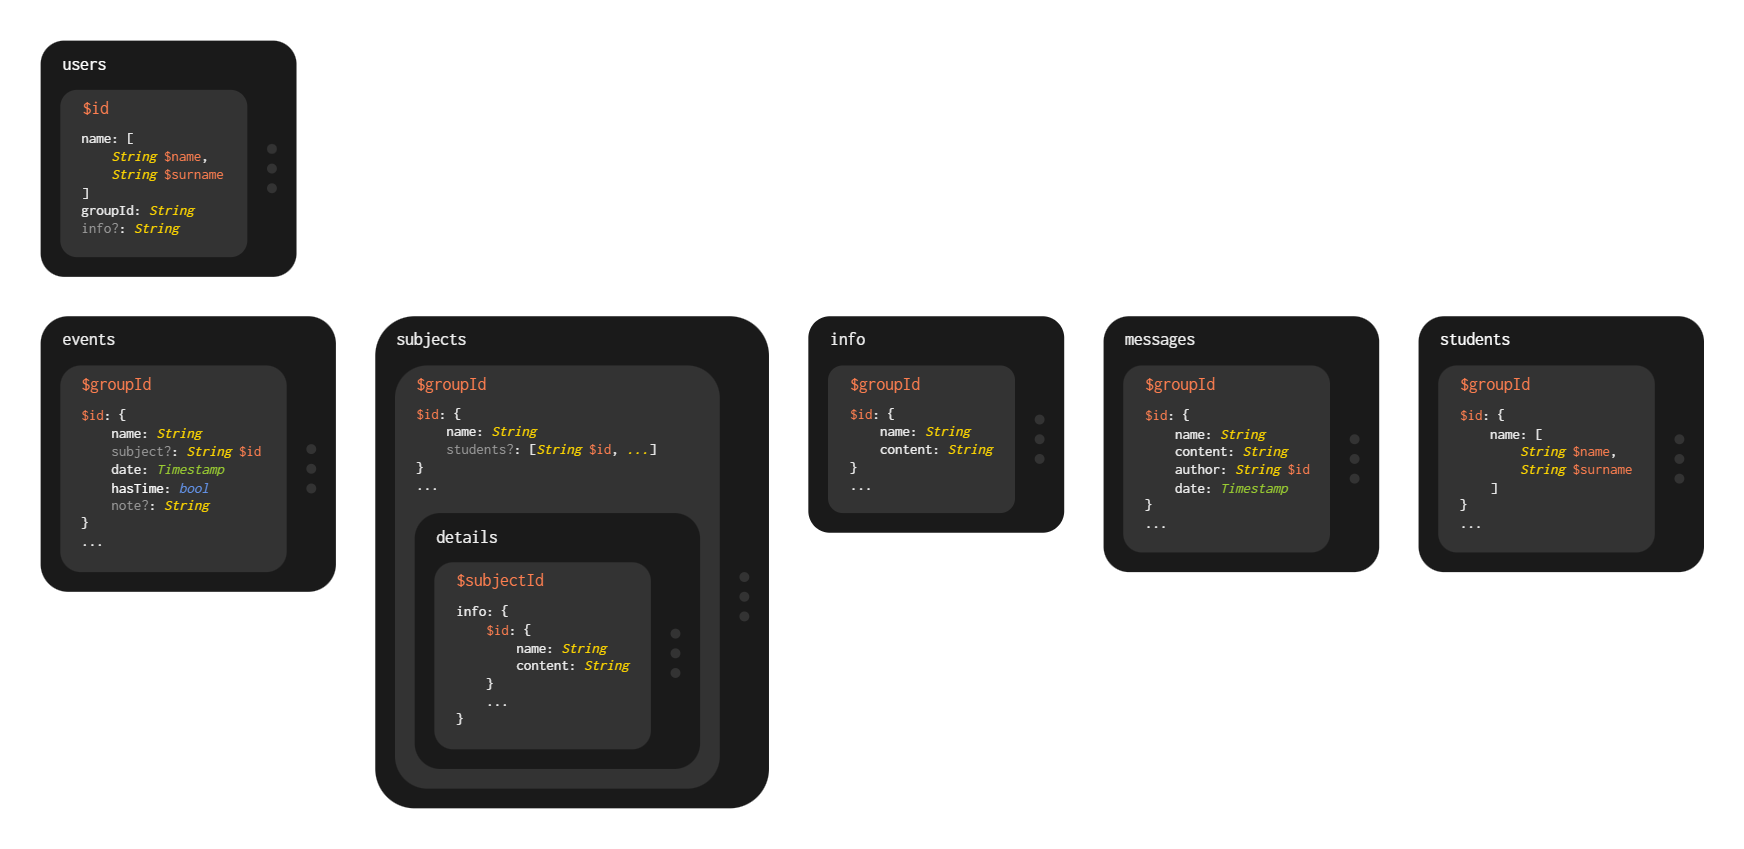
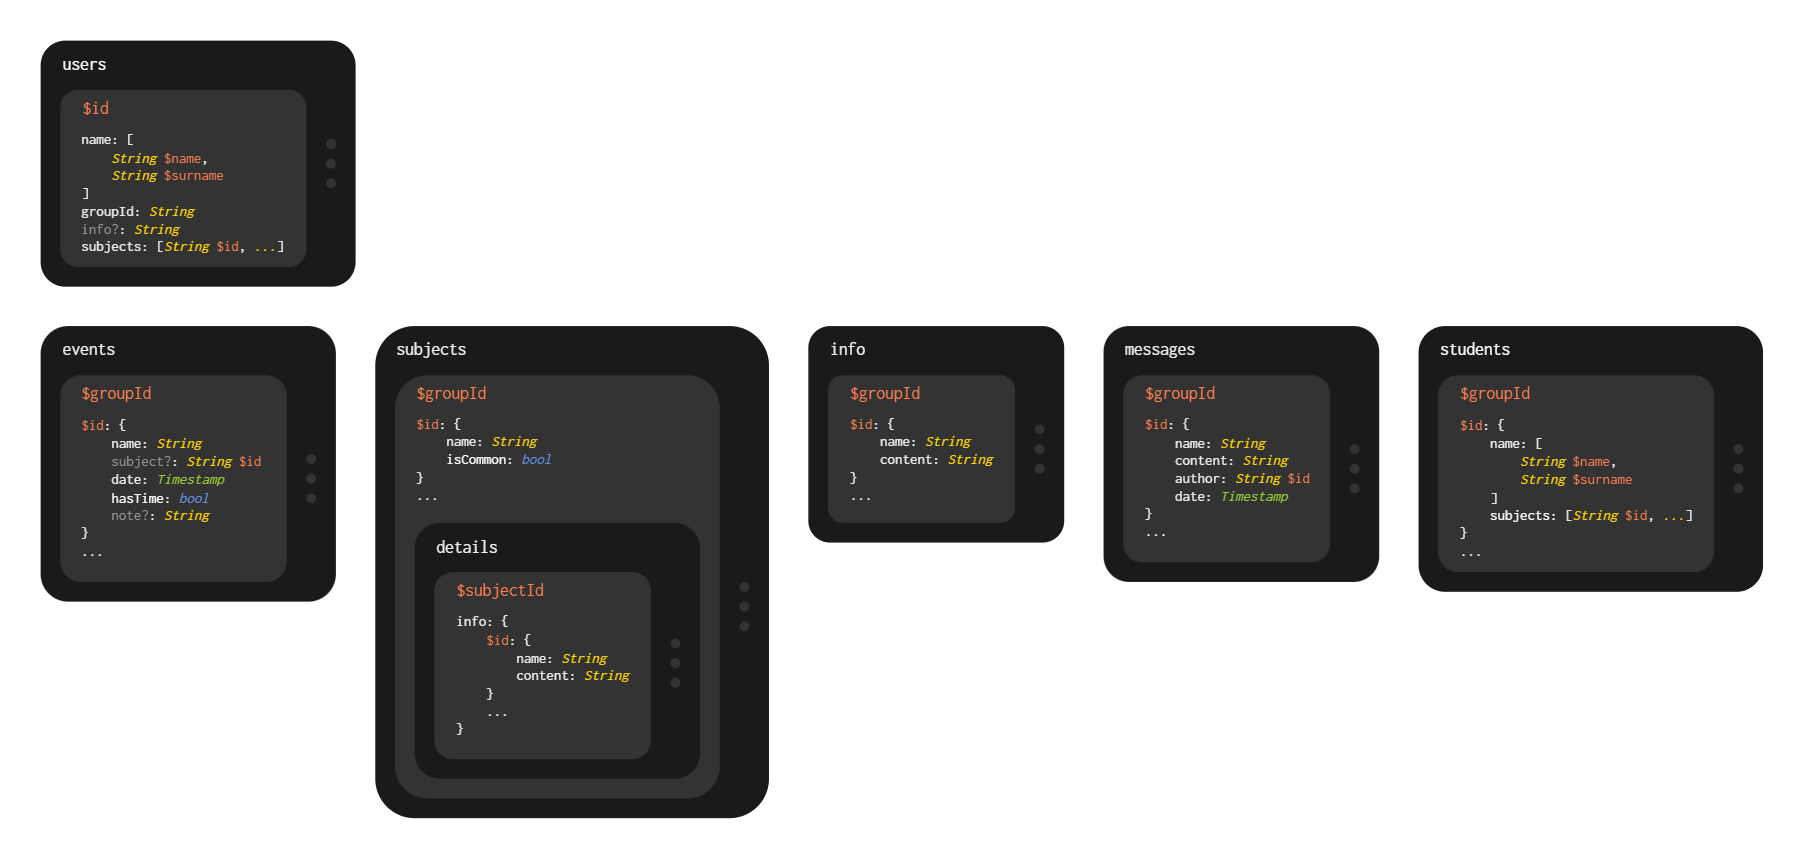
Change how the subjects-students relation is stored

Changed region(s): [[0.031, 0.3675, 0.9908, 0.9494], [0.031, 0.0306, 0.2167, 0.3369], [0.031, 0.0612, 0.0619, 0.0919]]

diff --git a/app/lib/features/home/data/repository.dart b/app/lib/features/home/data/repository.dart
@@ -15,8 +15,8 @@ import '../domain/entities/subject.dart';
 
 // do: failures
 // do: prevent unnecessary reads
-// do: remove duplication with info (adding, reading)
-// think: define addEntity, entities
+// do: remove duplication with info (adding, reading, referencing subject info)
+// think: define addEntity, entities, deleteEntity
 class HomeRepository {
 	const HomeRepository();
 
@@ -38,7 +38,7 @@ class HomeRepository {
 			ref.update({
 				subject.id: {
 					Field.name.name: subject.name,
-					if (subject.studentIds != null) Field.students.name: subject.studentIds
+					Field.isCommon.name: subject.isCommon
 				}
 			}),
 			ref.collection('details').doc(subject.id).set({
@@ -103,9 +103,7 @@ class HomeRepository {
 		return snapshot.data()!.entries.map((entry) => Subject(
 			id: entry.key,
 			name: entry.value[Field.name.name],
-			studentIds: !entry.value.containsKey(Field.students.name) ?
-				null :
-				List<String>.from(entry.value[Field.students.name])
+			isCommon: entry.value[Field.isCommon.name]
 		));
 	}
 
@@ -129,7 +127,7 @@ class HomeRepository {
 
 		return SubjectDetails(
 			info: info,
-			students: students
+			students: students?.where((s) => s.chose(subject))
 		);
 	}
 
@@ -163,8 +161,9 @@ class HomeRepository {
 		final snapshot = await Document.students.ref.get();
 		return snapshot.data()!.entries.map((entry) => Student(
 			id: entry.key,
-			name: (entry.value[Field.name.name]).first,
-			surname: (entry.value[Field.name.name]).last
+			name: entry.value[Field.name.name].first,
+			surname: entry.value[Field.name.name].last,
+			chosenSubjectIds: Set<String>.from(entry.value[Field.subjects.name])
 		));
 	}
 

diff --git a/app/lib/features/home/presentation/sections/subjects/section.dart b/app/lib/features/home/presentation/sections/subjects/section.dart
@@ -2,6 +2,8 @@ import 'package:collection/collection.dart';
 import 'package:flutter/material.dart';
 import 'package:hooks_riverpod/hooks_riverpod.dart';
 
+import 'package:podiinyk/core/domain/user.dart';
+
 import '../../../domain/entities/subject.dart';
 import '../../../domain/providers/events.dart';
 import '../../../domain/providers/subjects.dart';
@@ -27,8 +29,8 @@ class SubjectsSection extends HomeSection {
 	@override
 	Widget build(BuildContext context, WidgetRef ref) {
 		Iterable<Subject>? subjects = ref.watch(subjectsProvider);
-		subjects = subjects?.where((s) => s.isStudied)
-			.followedBy(subjects.where((s) => !s.isStudied));
+		subjects = subjects?.where((s) => User.studies(s))
+			.followedBy(subjects.where((s) => !User.studies(s)));
 
 		final events = ref.watch(eventsProvider);
 
@@ -44,7 +46,7 @@ class SubjectsSection extends HomeSection {
 				tile: (subject) {
 					final nextEvent = events!.firstWhereOrNull((e) => e.subject == subject);
 					return Opacity(
-						opacity: subject.isStudied ? 1 : .5,
+						opacity: User.studies(subject) ? 1 : .5,
 						child: EntityTile(
 							title: subject.name,
 							subtitle: nextEvent?.name,

diff --git a/app/lib/features/home/presentation/sections/events/form.dart b/app/lib/features/home/presentation/sections/events/form.dart
@@ -3,6 +3,7 @@ import 'package:flutter_hooks/flutter_hooks.dart';
 import 'package:hooks_riverpod/hooks_riverpod.dart';
 
 import 'package:podiinyk/core/domain/types/date.dart';
+import 'package:podiinyk/core/domain/user.dart';
 
 import '../../../domain/entities/entity.dart';
 import '../../../domain/entities/event.dart';
@@ -18,7 +19,7 @@ import '../../widgets/fields/option_field.dart';
 // 		EventForm relies on subjectsProvider to have been accessed
 //		EventsPage reads events from HomeRepository, not subjectsProvider
 // 		fix this after the data layer is improved
-// do: TextField.textInputAction
+// do: TextField.(textInputAction, multiline)
 // think: define EntityForm
 class EventForm extends HookConsumerWidget {
 	const EventForm();
@@ -52,7 +53,7 @@ class EventForm extends HookConsumerWidget {
 					if (subjects.isNotEmpty) OptionField<Subject>(
 						label: 'subject',
 						options: [
-							for (final subject in subjects.where((s) => s.isStudied))
+							for (final subject in subjects.where((s) => User.studies(s)))
 								MapEntry(subject.name, subject)
 						],
 						onPick: (s) => subject.value = s,

diff --git a/app/lib/features/home/presentation/sections/subjects/page.dart b/app/lib/features/home/presentation/sections/subjects/page.dart
@@ -1,6 +1,8 @@
 import 'package:flutter/material.dart';
 import 'package:hooks_riverpod/hooks_riverpod.dart';
 
+import 'package:podiinyk/core/domain/user.dart';
+
 import '../../../domain/entities/subject.dart';
 import '../../../domain/providers/events.dart';
 import '../../../domain/providers/subjects.dart';
@@ -26,7 +28,7 @@ class SubjectPage extends ConsumerWidget {
 		final events = ref.watch(eventsProvider)?.where((e) => e.subject == subject);
 
 		final isCommon = subject.isCommon;
-		final isStudied = subject.isStudied;
+		final isStudied = User.studies(subject);
 
 		return Scaffold(body: DefaultTabController(
 			length: isCommon ? 2 : 3,
@@ -36,10 +38,6 @@ class SubjectPage extends ConsumerWidget {
 					SafeArea(child: ActionBar(children: [
 						if (!isCommon) ActionButton(
 							icon: Icons.local_library,  // Icons.airline_seat_individual_suite
-							action: () {}
-						),
-						ActionButton(
-							icon: Icons.edit,
 							action: () {}
 						),
 						ActionButton(

diff --git a/app/lib/features/home/domain/entities/student.dart b/app/lib/features/home/domain/entities/student.dart
@@ -1,18 +1,32 @@
+import 'package:podiinyk/core/domain/user.dart';
+
 import 'entity.dart';
+import 'subject.dart';
 
 
 class Student extends Entity {
 	const Student({
 		required String id,
 		required this.name,
-		required this.surname
+		required this.surname,
+		required this.chosenSubjectIds
 	}) :
 		super(id: id);
+	
+	const Student.user() :
+		name = User.name,
+		surname = User.surname,
+		chosenSubjectIds = User.chosenSubjectIds,
+		super(id: User.id);
 
 	final String name;
 	final String surname;
+	// think: remove after the data layer is improved
+	final Set<String> chosenSubjectIds;
 
 	String get fullName => '$name $surname';
+
+	bool chose(Subject subject) => chosenSubjectIds.contains(subject.id);
 
 	@override
 	int compareTo(covariant Student other) => surname.compareTo(other.surname);

diff --git a/app/lib/features/home/domain/entities/subject.dart b/app/lib/features/home/domain/entities/subject.dart
@@ -1,5 +1,3 @@
-import 'package:podiinyk/core/domain/user.dart';
-
 import 'entity.dart';
 import 'info.dart';
 import 'student.dart';
@@ -9,23 +7,19 @@ class Subject extends Entity {
 	const Subject({
 		required String id,
 		required this.name,
-		required this.studentIds
+		required this.isCommon
 	}) :
 		super(id: id);
 
 	final String name;
-	final Iterable<String>? studentIds;
-
-	// think: rename (isChosen?)
-	bool get isCommon => studentIds == null;
-
-	bool get isStudied => isCommon || studentIds!.contains(User.id);
+	// think: rename (isChosen / isGeneral / isObligatory)
+	final bool isCommon;
 
 	@override
 	int compareTo(covariant Subject other) => name.compareTo(other.name);
 }
 
-// do: define copyWith
+
 class SubjectDetails {
 	const SubjectDetails({
 		required this.info,

diff --git a/app/lib/features/home/presentation/widgets/fields/date_field.dart b/app/lib/features/home/presentation/widgets/fields/date_field.dart
@@ -12,15 +12,19 @@ import 'package:podiinyk/core/presentation/open_page.dart';
 // think: is it efficient to access DateTime getters multiple times?
 // think: use Riverpod for state management
 class DateField extends HookWidget {
-	const DateField({required this.onPick});
+	const DateField({
+		this.initial,
+		required this.onPick
+	});
 
+	final Date? initial;
 	// think: replace with ObjectRef<Date>
 	final void Function(Date) onPick;
 
 	@override
 	Widget build(BuildContext context) {
-		final field = useTextEditingController();
-		final date = useRef(Date.now(hasTime: false));
+		final field = useTextEditingController(text: initial?.repr);
+		final date = useRef(initial ?? Date.now(hasTime: false));
 
 		return GestureDetector(
 			onTap: () => openPage(

diff --git a/app/lib/features/home/presentation/sections/events/section.dart b/app/lib/features/home/presentation/sections/events/section.dart
@@ -1,6 +1,8 @@
 import 'package:flutter/material.dart';
 import 'package:hooks_riverpod/hooks_riverpod.dart';
 
+import 'package:podiinyk/core/domain/user.dart';
+
 import '../../../domain/providers/events.dart';
 import '../../widgets/bars/home_section_bar.dart';
 import '../section.dart';
@@ -18,7 +20,7 @@ class EventsSection extends HomeSection {
 	@override
 	Widget build(BuildContext context, WidgetRef ref) {
 		final events = ref.watch(eventsProvider)?.where(
-			(e) => e.subject == null || e.subject!.isStudied
+			(e) => e.subject == null || User.studies(e.subject!)
 		);
 
 		return Scaffold(

diff --git a/app/lib/core/domain/user.dart b/app/lib/core/domain/user.dart
@@ -1,7 +1,16 @@
-// do: remove after authentication
+import 'package:podiinyk/features/home/domain/entities/subject.dart';
+
+
+// do: change after authentication
 class User {
-	static const id = 'id';
-	static const name = 'name';
-	static const surname = 'surname';
+	static const id = 'userId';
+	static const name = 'Name';
+	static const surname = 'Surname';
 	static const groupId = 'groupId';
+	// think: rename
+	static const chosenSubjectIds = <String>{};
+
+	static bool studies(Subject subject) {
+		return subject.isCommon || chosenSubjectIds.contains(subject.id);
+	}
 }

diff --git a/app/lib/features/home/presentation/sections/events/page.dart b/app/lib/features/home/presentation/sections/events/page.dart
@@ -37,10 +37,6 @@ class EventPage extends StatelessWidget {
 					icon: Icons.done,  // Icons.undo
 					action: () {}
 				),
-				ActionButton(
-					icon: Icons.edit,
-					action: () {}
-				),
 				Consumer(builder: (context, ref, _) => ActionButton(
 					icon: Icons.delete,
 					action: () => _delete(context, ref)

diff --git a/app/lib/features/home/presentation/sections/messages/page.dart b/app/lib/features/home/presentation/sections/messages/page.dart
@@ -30,10 +30,6 @@ class MessagePage extends StatelessWidget {
 				]
 			)),
 			if (message.isByUser) ActionBar(children: [
-				ActionButton(
-					icon: Icons.edit,
-					action: () {}
-				),
 				Consumer(builder: (context, ref, _) => ActionButton(
 					icon: Icons.delete,
 					action: () => _delete(context, ref)

diff --git a/app/lib/features/home/presentation/sections/messages/form.dart b/app/lib/features/home/presentation/sections/messages/form.dart
@@ -47,7 +47,7 @@ class MessageForm extends HookConsumerWidget {
 			id: Entity.newId(),
 			name: name,
 			content: content,
-			author: const Student(id: User.id, name: User.name, surname: User.surname),
+			author: const Student.user(),
 			date: Date.now()
 		));
 		Navigator.of(context).pop();
